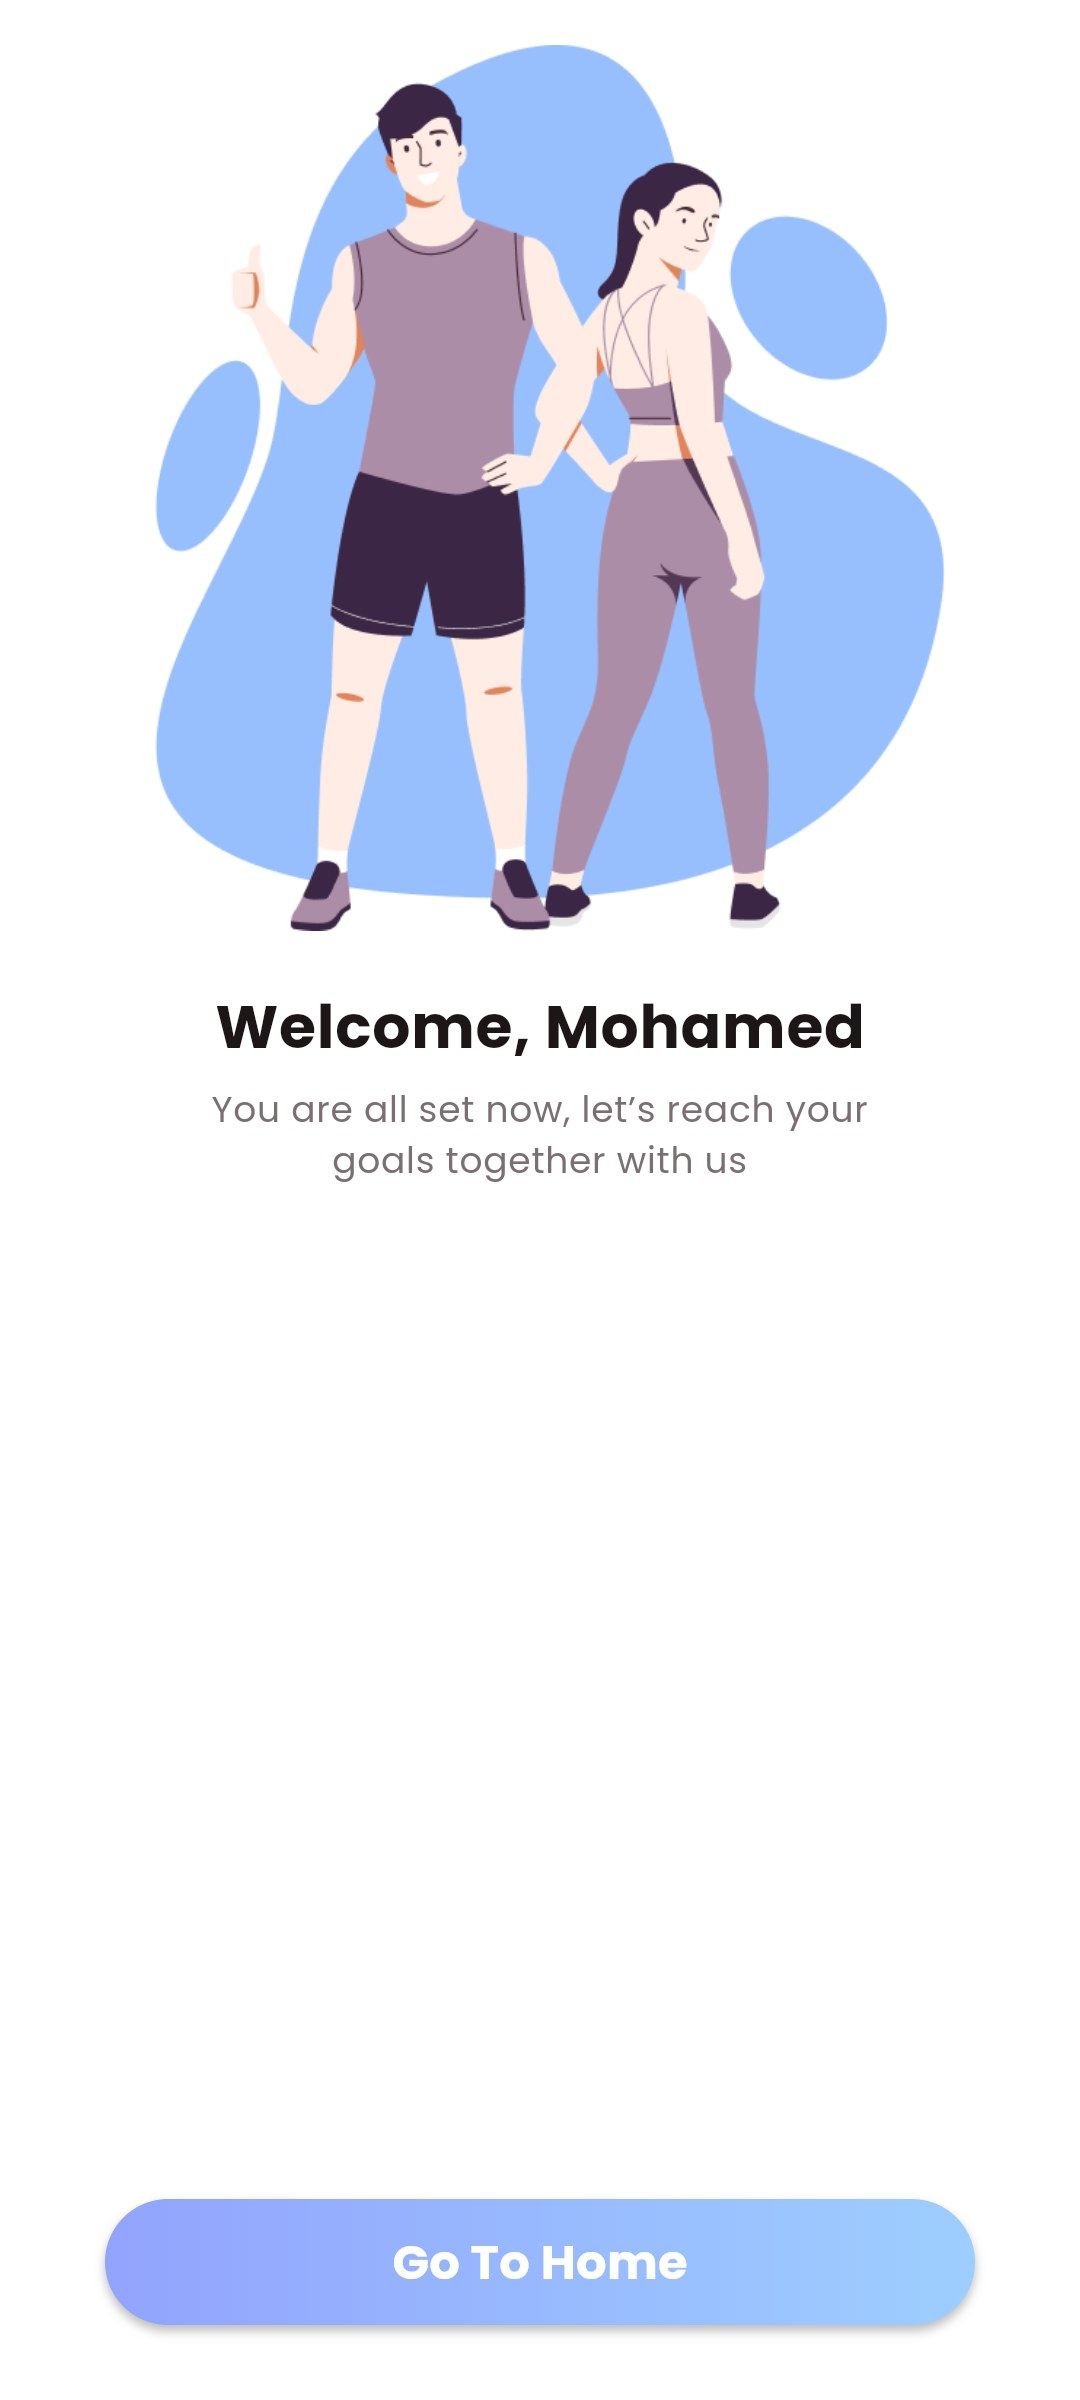
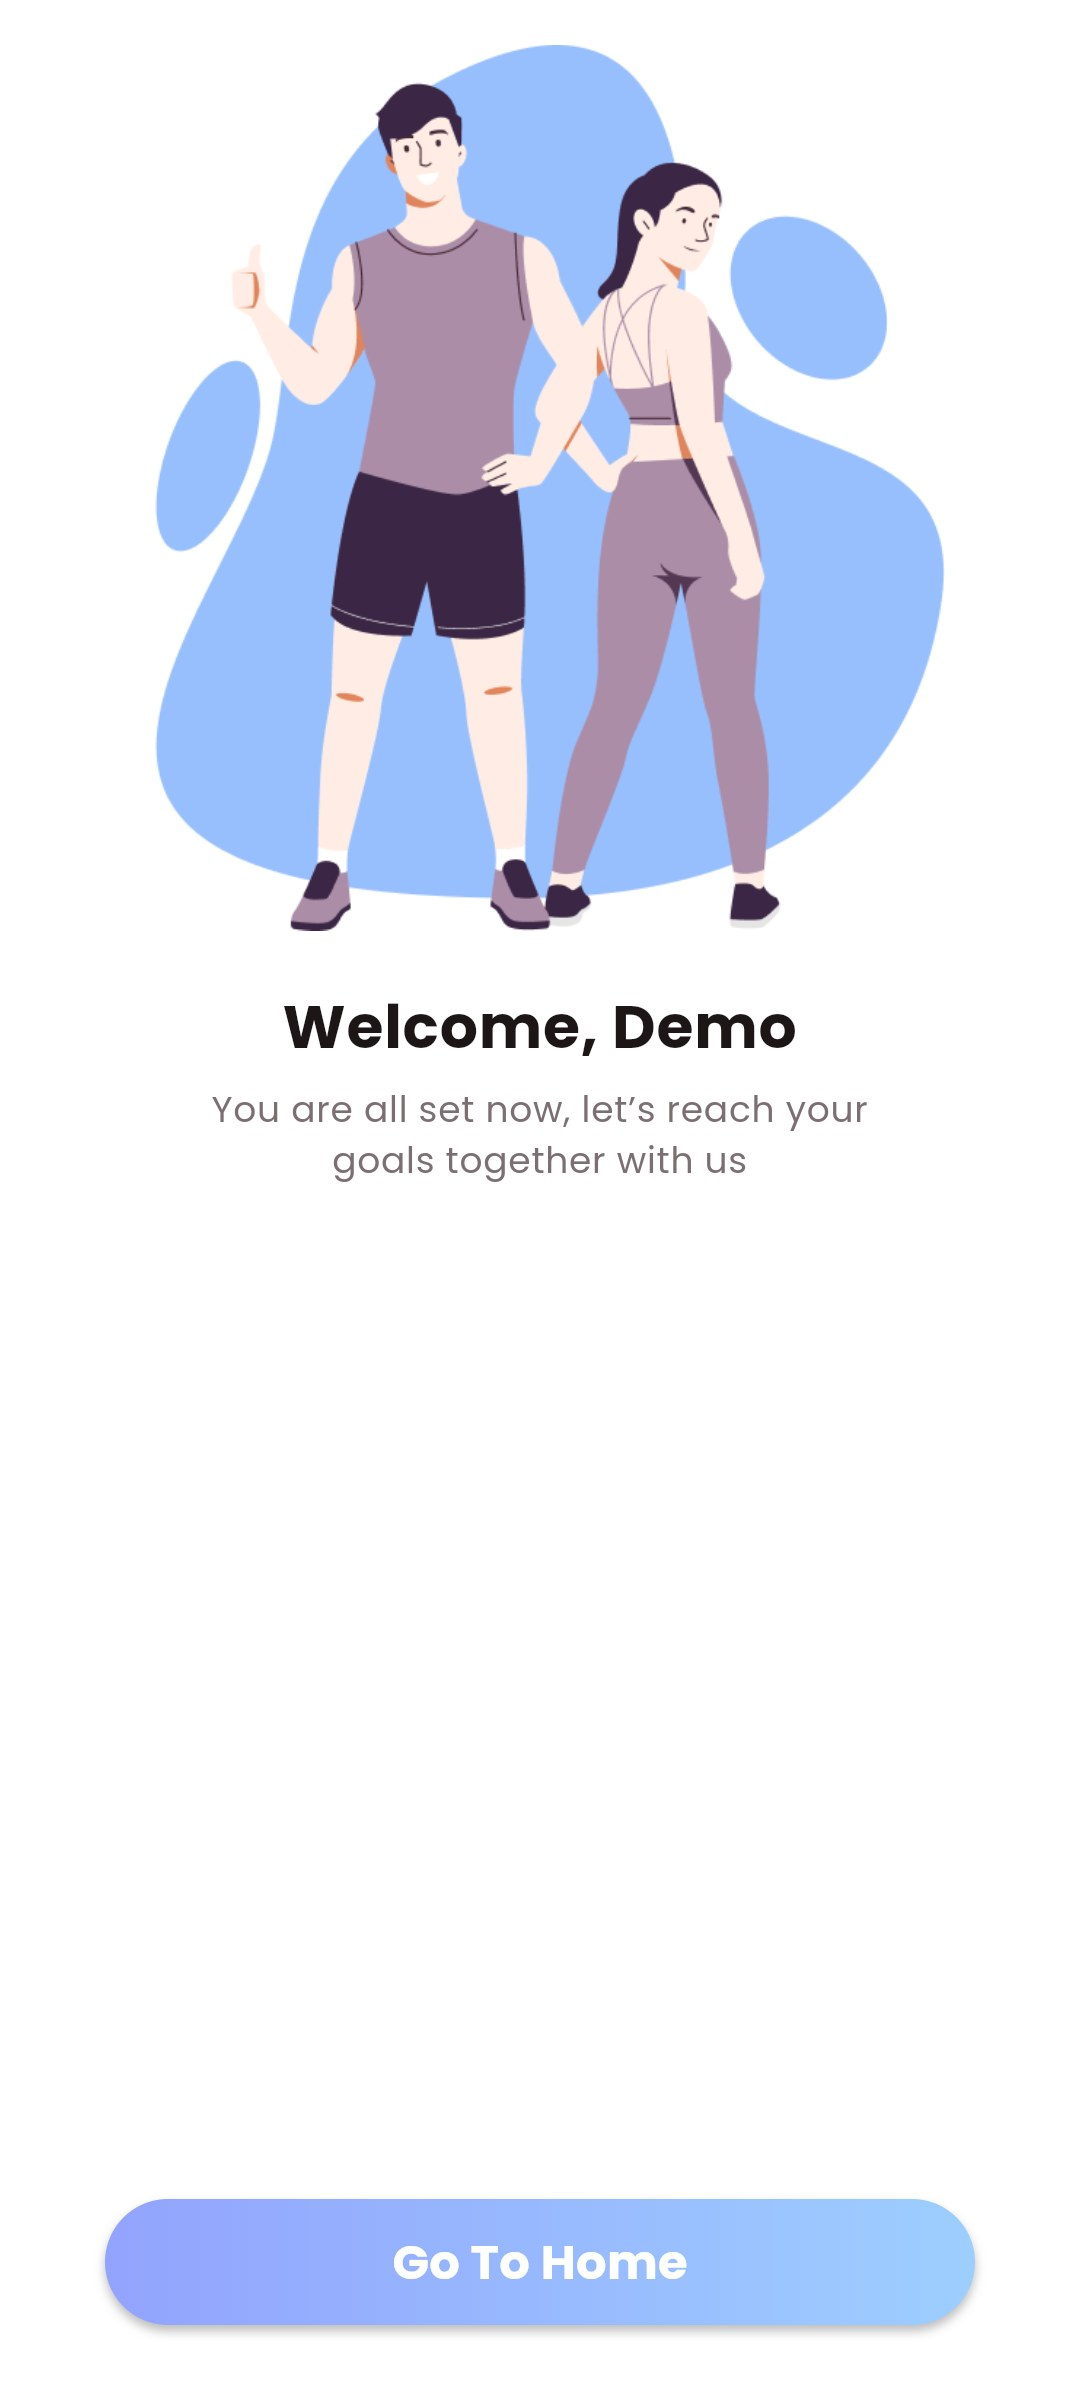
Show the user's real name on the profile and welcome screens
- Profile screen loads the user's name from the tracking service instead
  of the hardcoded "Mohamed Boukadida" ("…" while loading, "Name
  unavailable" if the service is down).
- Welcome screen greets the user by first name ("Welcome, Amira"), with a
  generic "Welcome!" while loading or when the name is unavailable.
- Rename the AppUser data class (was UserProfile), which clashed with the
  profile screen widget of the same name.
- Widget tests for both screens; profile and welcome screenshots updated.

Changed region(s): [[0.1833, 0.4062, 0.7944, 0.4375]]

diff --git a/mobileapp/test/profile_and_welcome_test.dart b/mobileapp/test/profile_and_welcome_test.dart
@@ -1,0 +1,53 @@
+import 'dart:convert';
+
+import 'package:fitnessapp/service/wellbeing_service.dart';
+import 'package:fitnessapp/view/profile/user_profile.dart';
+import 'package:fitnessapp/view/welcome/welcome_screen.dart';
+import 'package:flutter/material.dart';
+import 'package:flutter_test/flutter_test.dart';
+import 'package:http/http.dart' as http;
+import 'package:http/testing.dart';
+
+WellbeingService _service({String? name, bool down = false}) => WellbeingService(
+      baseUrl: 'http://api.test',
+      client: MockClient((request) async {
+        if (down) throw http.ClientException('refused');
+        return http.Response(
+            jsonEncode({'id': 'u1', 'username': name, 'dailyWaterIntakeGoal': 2.5}), 200);
+      }),
+    );
+
+Future<void> _pump(WidgetTester tester, Widget screen) async {
+  tester.view.physicalSize = const Size(1080, 2400);
+  tester.view.devicePixelRatio = 3;
+  addTearDown(tester.view.reset);
+  await tester.pumpWidget(MaterialApp(home: screen));
+  await tester.pumpAndSettle();
+}
+
+void main() {
+  testWidgets('profile shows the user\'s name from the back-end', (tester) async {
+    await _pump(tester, UserProfile(wellbeingService: _service(name: 'Amira Ben Salah')));
+    expect(find.text('Amira Ben Salah'), findsOneWidget);
+    expect(find.text('Mohamed Boukadida'), findsNothing);
+  });
+
+  testWidgets('profile says when the name cannot be loaded', (tester) async {
+    await _pump(tester, UserProfile(wellbeingService: _service(down: true)));
+    expect(find.text('Name unavailable'), findsOneWidget);
+  });
+
+  testWidgets('welcome greets the user by first name', (tester) async {
+    await _pump(tester, WelcomeScreen(wellbeingService: _service(name: 'Amira  Ben Salah')));
+    expect(find.text('Welcome, Amira'), findsOneWidget);
+    expect(find.text('Welcome, Mohamed'), findsNothing);
+  });
+
+  testWidgets('welcome falls back to a generic greeting', (tester) async {
+    await _pump(tester, WelcomeScreen(wellbeingService: _service(down: true)));
+    expect(find.text('Welcome!'), findsOneWidget);
+
+    await _pump(tester, WelcomeScreen(wellbeingService: _service(name: '')));
+    expect(find.text('Welcome!'), findsOneWidget);
+  });
+}

diff --git a/mobileapp/lib/view/profile/user_profile.dart b/mobileapp/lib/view/profile/user_profile.dart
@@ -1,4 +1,7 @@
 import 'package:animated_toggle_switch/animated_toggle_switch.dart';
+import 'package:fitnessapp/config/api_config.dart';
+import 'package:fitnessapp/service/api_client.dart';
+import 'package:fitnessapp/service/wellbeing_service.dart';
 import 'package:fitnessapp/utils/app_colors.dart';
 import 'package:fitnessapp/view/profile/widgets/setting_row.dart';
 import 'package:fitnessapp/view/profile/widgets/title_subtitle_cell.dart';
@@ -7,7 +10,10 @@ import 'package:flutter/material.dart';
 import '../../common_widgets/round_button.dart';
 
 class UserProfile extends StatefulWidget {
-  const UserProfile({Key? key}) : super(key: key);
+  const UserProfile({super.key, this.wellbeingService});
+
+  /// Injectable for tests; defaults to the real service.
+  final WellbeingService? wellbeingService;
 
   @override
   State<UserProfile> createState() => _UserProfileState();
@@ -15,6 +21,27 @@ class UserProfile extends StatefulWidget {
 
 class _UserProfileState extends State<UserProfile> {
   bool positive = false;
+
+  /// The user's name from the back-end; null while loading.
+  String? _name;
+
+  @override
+  void initState() {
+    super.initState();
+    _loadName();
+  }
+
+  Future<void> _loadName() async {
+    String name;
+    try {
+      final user = await (widget.wellbeingService ?? WellbeingService())
+          .fetchUser(ApiConfig.userId);
+      name = user.name.isEmpty ? "Name not set" : user.name;
+    } on ApiException {
+      name = "Name unavailable";
+    }
+    if (mounted) setState(() => _name = name);
+  }
 
   List accountArr = [
     {
@@ -106,8 +133,9 @@ class _UserProfileState extends State<UserProfile> {
                       crossAxisAlignment: CrossAxisAlignment.start,
                       children: [
                         Text(
-                          "Mohamed Boukadida",
-                          style: TextStyle(
+                          _name ?? "…",
+                          overflow: TextOverflow.ellipsis,
+                          style: const TextStyle(
                             color: AppColors.blackColor,
                             fontSize: 14,
                             fontWeight: FontWeight.w500,

diff --git a/mobileapp/lib/view/welcome/welcome_screen.dart b/mobileapp/lib/view/welcome/welcome_screen.dart
@@ -1,13 +1,44 @@
+import 'package:fitnessapp/config/api_config.dart';
+import 'package:fitnessapp/service/api_client.dart';
+import 'package:fitnessapp/service/wellbeing_service.dart';
 import 'package:fitnessapp/utils/app_colors.dart';
 import 'package:fitnessapp/view/dashboard/dashboard_screen.dart';
 import 'package:flutter/material.dart';
 
 import '../../common_widgets/round_gradient_button.dart';
 
-class WelcomeScreen extends StatelessWidget {
+class WelcomeScreen extends StatefulWidget {
   static String routeName = "/WelcomeScreen";
 
-  const WelcomeScreen({Key? key}) : super(key: key);
+  const WelcomeScreen({super.key, this.wellbeingService});
+
+  /// Injectable for tests; defaults to the real service.
+  final WellbeingService? wellbeingService;
+
+  @override
+  State<WelcomeScreen> createState() => _WelcomeScreenState();
+}
+
+class _WelcomeScreenState extends State<WelcomeScreen> {
+  /// The user's first name from the back-end; null until loaded or if unavailable.
+  String? _firstName;
+
+  @override
+  void initState() {
+    super.initState();
+    _loadName();
+  }
+
+  Future<void> _loadName() async {
+    try {
+      final user = await (widget.wellbeingService ?? WellbeingService())
+          .fetchUser(ApiConfig.userId);
+      final first = user.name.split(RegExp(r'\s+')).first;
+      if (mounted && first.isNotEmpty) setState(() => _firstName = first);
+    } on ApiException {
+      // Keep the generic greeting.
+    }
+  }
 
   @override
   Widget build(BuildContext context) {
@@ -24,9 +55,10 @@ class WelcomeScreen extends StatelessWidget {
               Image.asset("assets/images/welcome_promo.png",
                   width: media.width * 0.75, fit: BoxFit.fitWidth),
               SizedBox(height: media.width * 0.05),
-              const Text(
-                "Welcome, Mohamed",
-                style: TextStyle(
+              Text(
+                _firstName == null ? "Welcome!" : "Welcome, $_firstName",
+                textAlign: TextAlign.center,
+                style: const TextStyle(
                     color: AppColors.blackColor,
                     fontSize: 20,
                     fontWeight: FontWeight.w700),

diff --git a/mobileapp/lib/service/wellbeing_service.dart b/mobileapp/lib/service/wellbeing_service.dart
@@ -4,10 +4,11 @@ import 'package:fitnessapp/config/api_config.dart';
 import 'package:fitnessapp/service/api_client.dart';
 import 'package:http/http.dart' as http;
 
-class UserProfile {
-  const UserProfile({required this.id, required this.name, required this.dailyGoal});
+/// A user account as stored by the tracking service.
+class AppUser {
+  const AppUser({required this.id, required this.name, required this.dailyGoal});
 
-  factory UserProfile.fromJson(Map<String, dynamic> json) => UserProfile(
+  factory AppUser.fromJson(Map<String, dynamic> json) => AppUser(
         id: json['id'] as String,
         name: (json['username'] as String?)?.trim() ?? '',
         dailyGoal: (json['dailyWaterIntakeGoal'] as num? ?? 0).toDouble(),
@@ -63,8 +64,8 @@ class WellbeingService {
 
   final ApiClient _api;
 
-  Future<UserProfile> fetchUser(String userId) async =>
-      UserProfile.fromJson(jsonDecode(await _api.get('/users/$userId')));
+  Future<AppUser> fetchUser(String userId) async =>
+      AppUser.fromJson(jsonDecode(await _api.get('/users/$userId')));
 
   Future<List<SleepEntry>> fetchSleep(String userId, DateTime from, DateTime to) async {
     final List<dynamic> data = jsonDecode(await _api.get('/sleep/$userId',

diff --git a/mobileapp/lib/view/home/home_screen.dart b/mobileapp/lib/view/home/home_screen.dart
@@ -61,7 +61,7 @@ class _HomeScreenState extends State<HomeScreen> {
     },
   ];
 
-  UserProfile? _profile;
+  AppUser? _profile;
   double? _todayIntake;
   List<IntakeEntry>? _intakeEntries;
   List<SleepEntry>? _sleep;
@@ -100,7 +100,7 @@ class _HomeScreenState extends State<HomeScreen> {
     ]);
     if (!mounted) return;
     setState(() {
-      _profile = results[0] as UserProfile?;
+      _profile = results[0] as AppUser?;
       _todayIntake = results[1] as double?;
       _intakeEntries = results[2] as List<IntakeEntry>?;
       _sleep = results[3] as List<SleepEntry>?;
